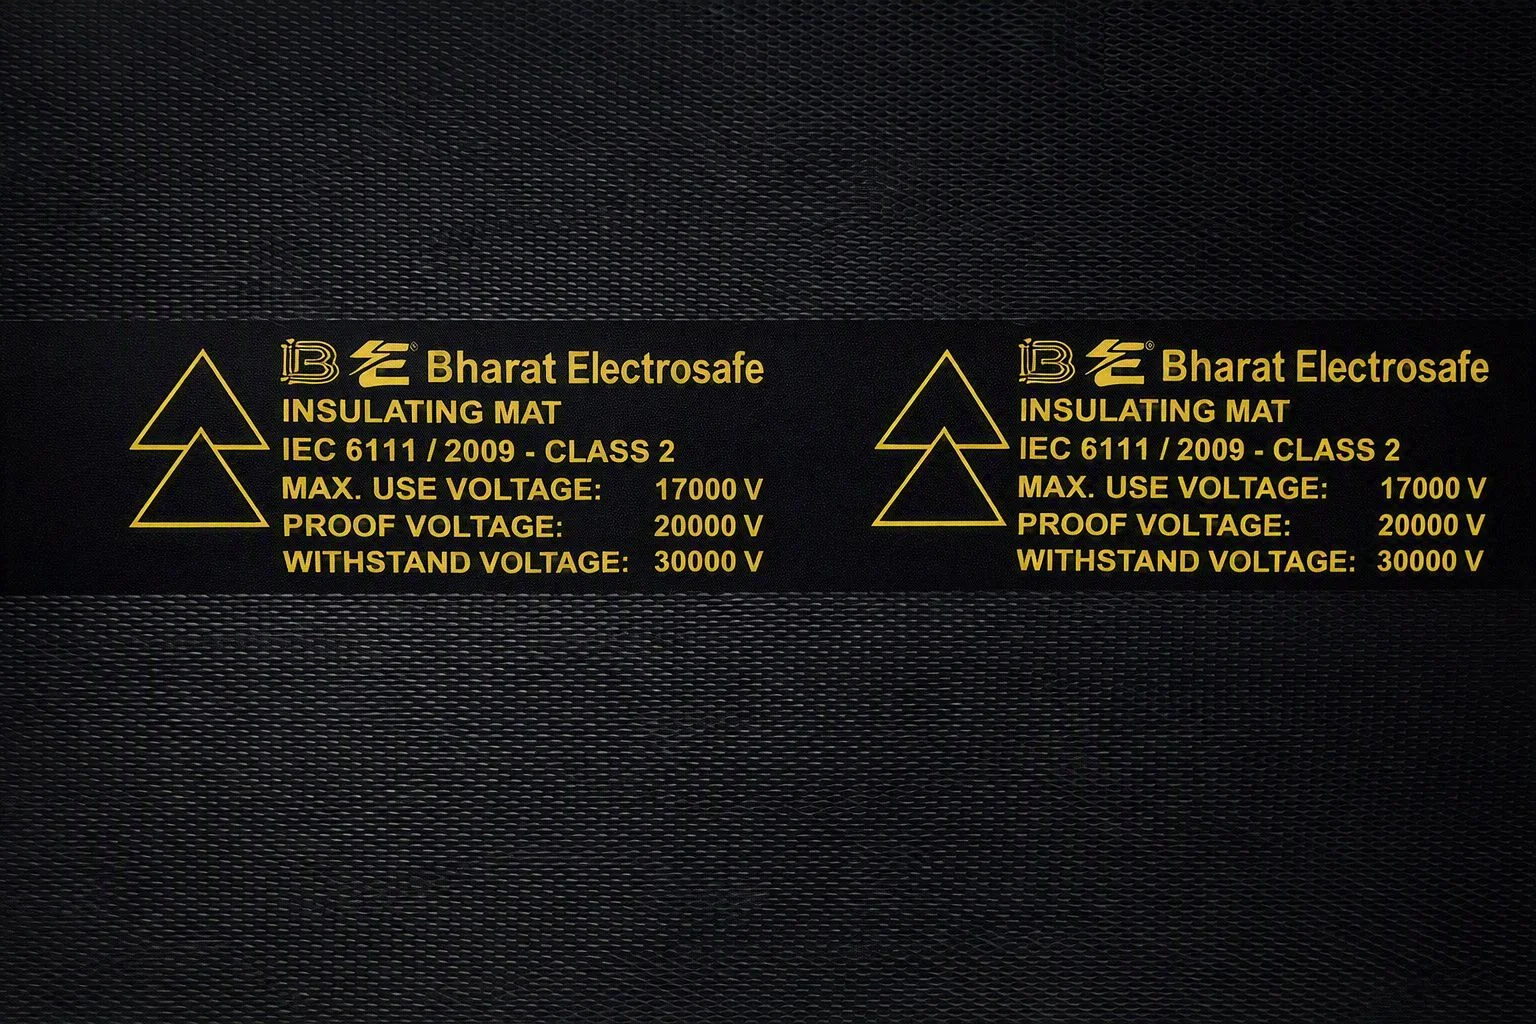
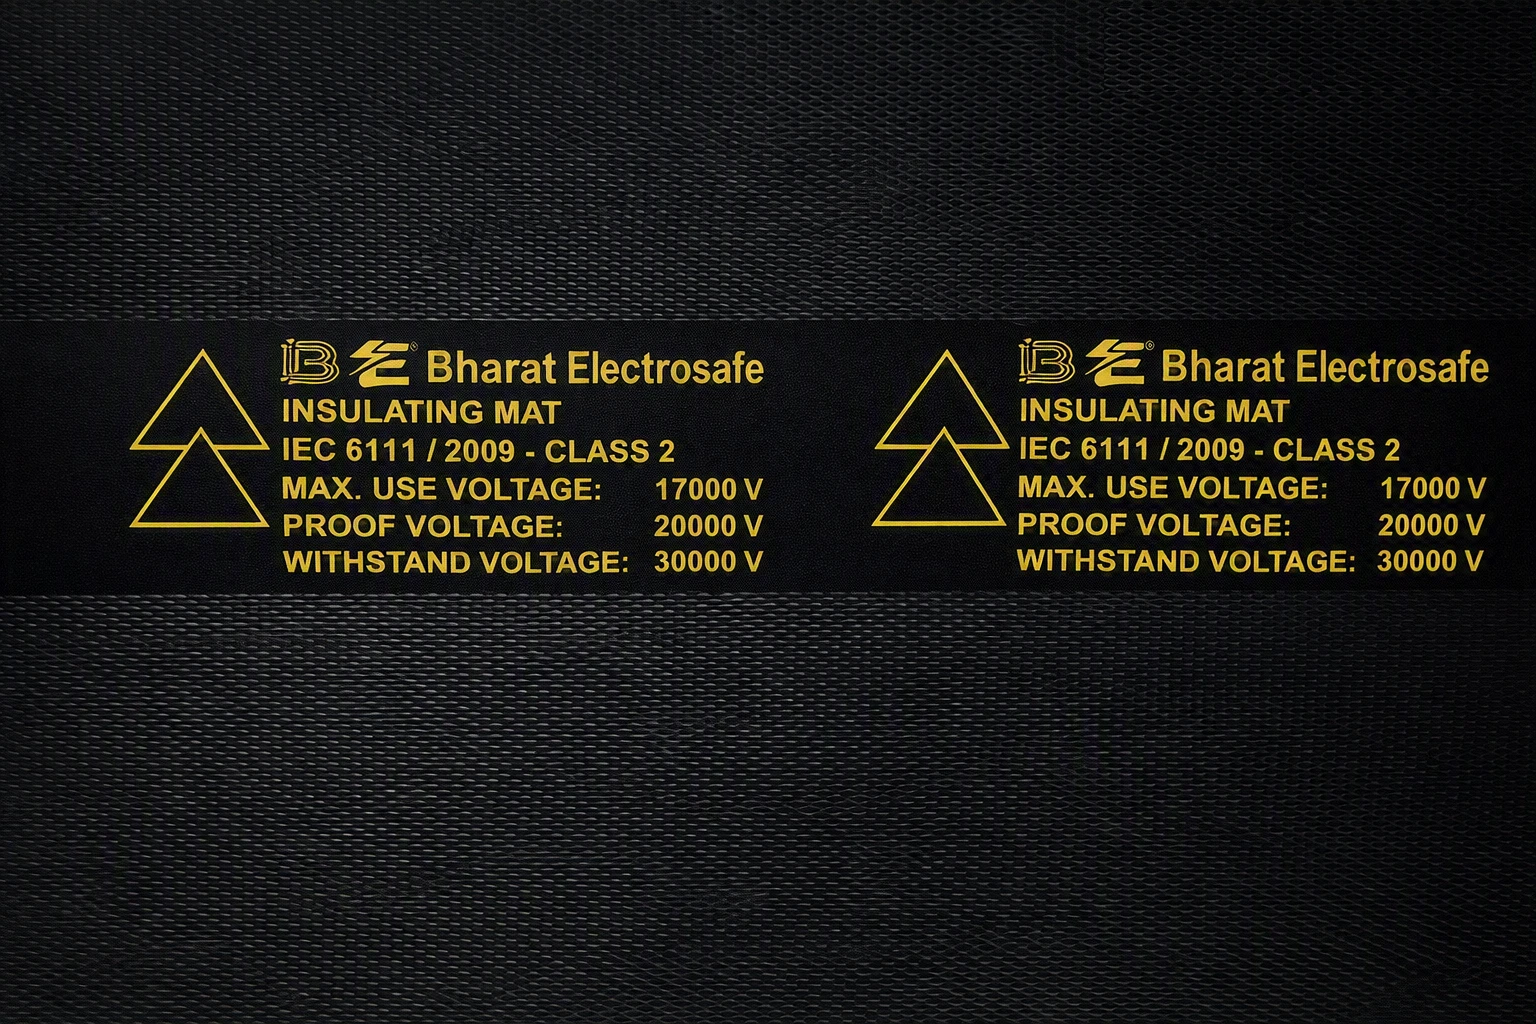
Global HV Identification: use exact client-supplied files from ZIP
Use the actual image files provided in OneDrive_1_02-09-2026.zip:

POSITION 1 (LEFT large area):
- File: 'IEC 61111.png' → iec-marking-class-2-yellow.webp
- Shows Bharat Electrosafe IEC 61111/2009 Class 2 marking
  (17000V/20000V/30000V, yellow text)
- Placed in the left column below the heading and descriptive text
- aspectRatio=landscape, fit=cover

POSITION 2 (RIGHT primary gallery image):
- File: 'IEC 61111 Class 0-3.png' → iec-marking-class-0-red.webp
- Shows Bharat Electrosafe IEC 61111 marking examples for
  Class 0, Class 1 and Class 2 with thickness
- Placed as the single primary image in the right column
- aspectRatio=square, fit=contain (preserves the nearly-square source
  aspect ratio and all class markings without cropping)
- Alt text updated to accurately describe the Class 0-3 examples

The two images remain separate — no combined frame, no collage.
Existing text, heading, and descriptive paragraphs unchanged.
No technical data, routes, navigation, or product hierarchy changed.

Domestic pages verified unchanged:
- Domestic HV, Auto Glow, Bi-Color, PoleShield all untouched.

Verified: typecheck PASS, lint PASS, build PASS (38 routes), browser-
verified Image 1 (Class 2) on left + Image 2 (Class 0-3 examples) on
right, both loaded, VLM confirmed markings visible/readable, no
overflow at desktop/tablet/mobile, no runtime/console errors.

diff --git a/src/app/products/electrical-insulating-mats/international-iec-61111/hv-insulating-mats/GlobalHVClient.tsx b/src/app/products/electrical-insulating-mats/international-iec-61111/hv-insulating-mats/GlobalHVClient.tsx
@@ -899,13 +899,13 @@ export default function GlobalHVClient() {
               />
             </div>
 
-            {/* RIGHT — Image 2 (Class 0) as the primary gallery image */}
+            {/* RIGHT — Image 2 (Class 0-3 marking examples) as the primary gallery image */}
             <div className="lg:w-[55%]">
               <ImageFrame
                 src="/media/products/international-iec/client-approved/iec-marking-class-0-red.webp"
-                alt="Bharat Electrosafe IEC 61111/2009 Class 0 mat marking — max use voltage 1000 V, proof voltage 5000 V, withstand voltage 10000 V"
-                aspectRatio="landscape"
-                fit="cover"
+                alt="Bharat Electrosafe IEC 61111:2009 insulating mat marking examples — Class 0, Class 1 and Class 2 markings with thickness"
+                aspectRatio="square"
+                fit="contain"
               />
             </div>
           </div>
